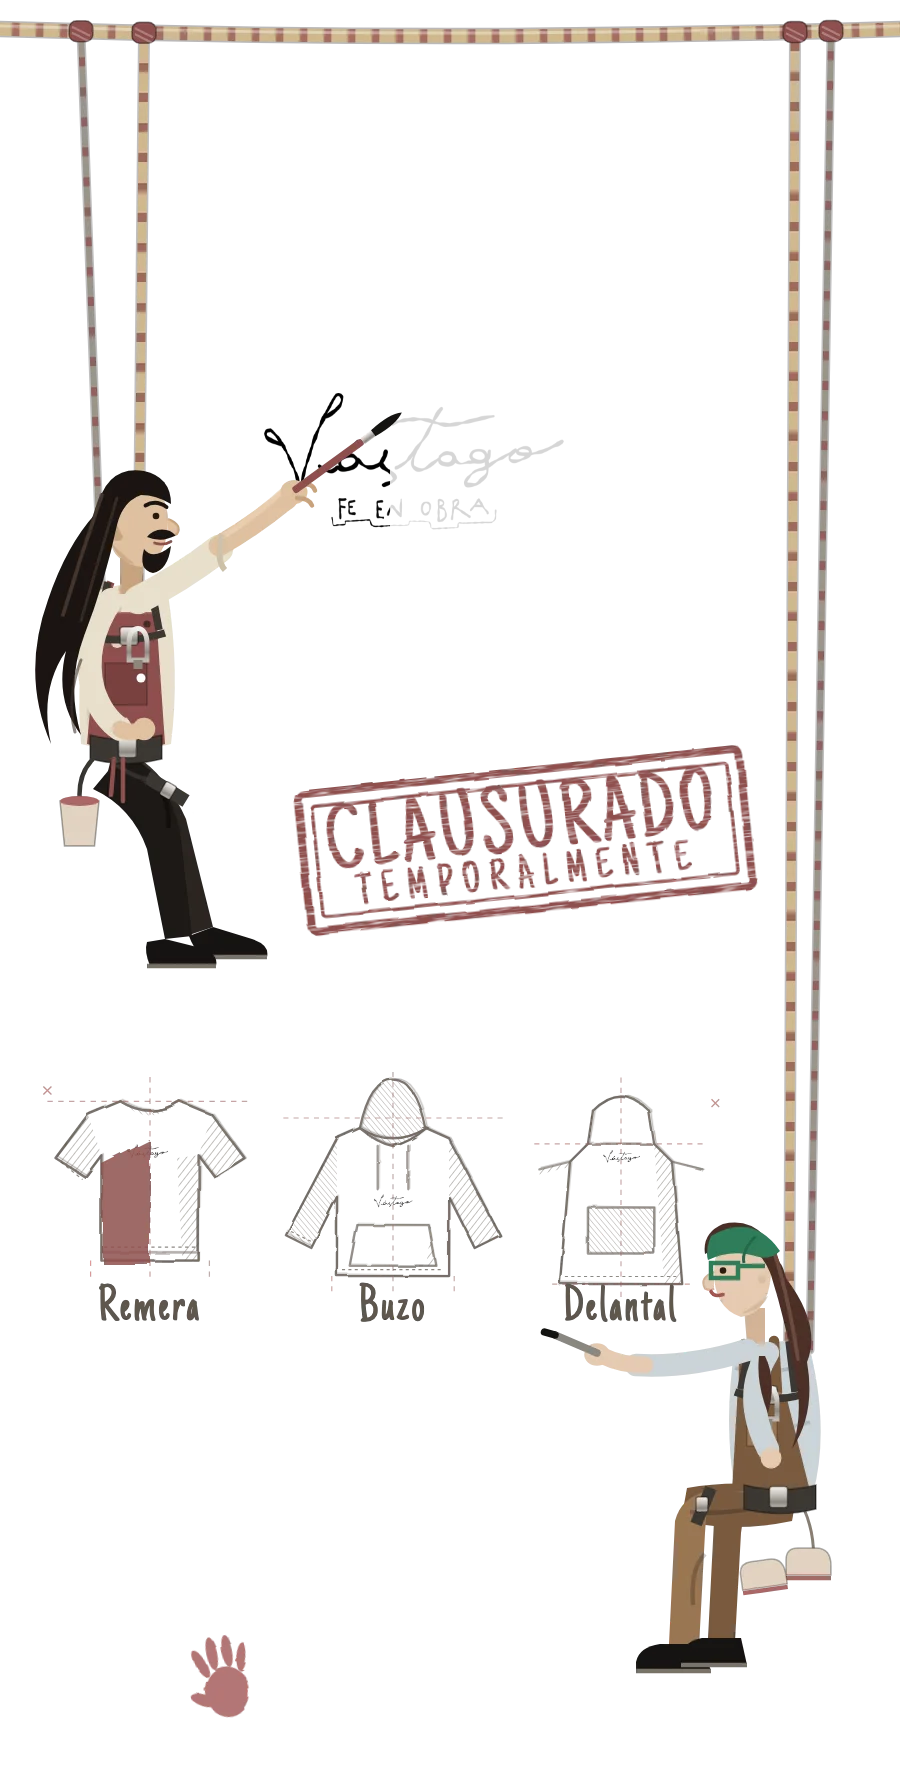
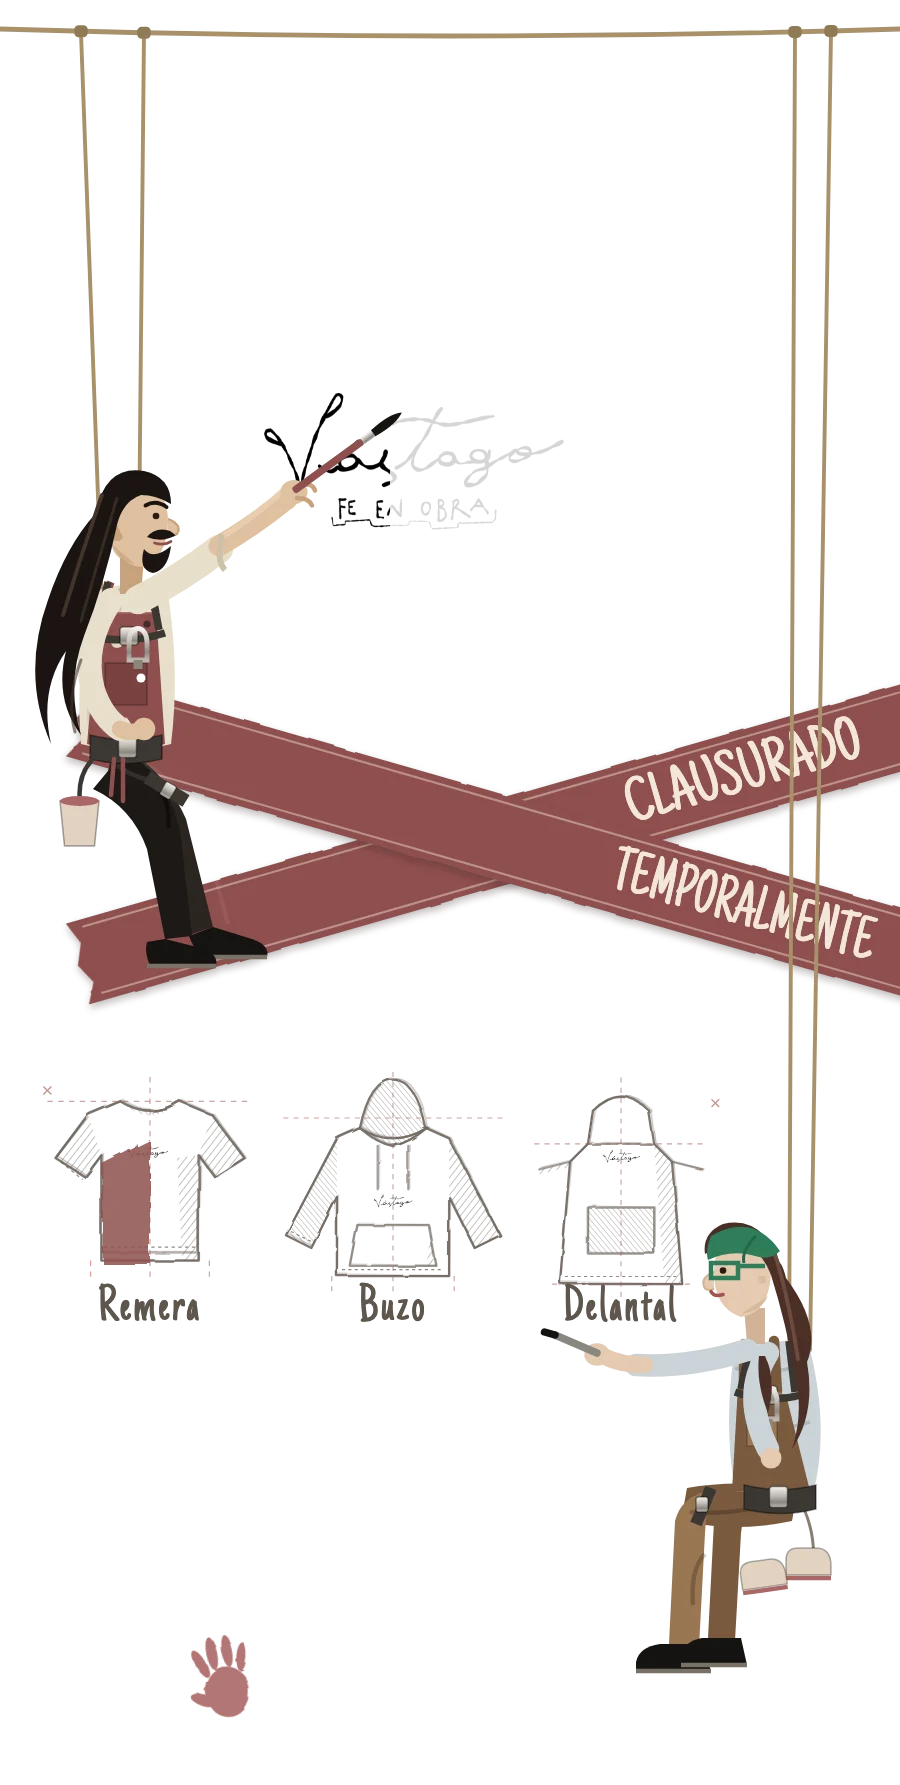
Tienda: soga fina de un color y cintas de clausura en X; taller en San Francisco, Córdoba; banda de encargos más arriba

Changed region(s): [[0.0, 0.0, 1.0, 0.7395], [0.0622, 0.4006, 0.1244, 0.4314]]

diff --git a/sitio/index.html b/sitio/index.html
@@ -414,7 +414,7 @@ a.v:focus-visible{outline:2px solid var(--bordo-os);outline-offset:3px}
 </section>
 
 <!-- ENCARGOS: banda -->
-<section class="s lienzo" id="encargos" style="padding-top:0;padding-bottom:clamp(36px,6vh,70px)">
+<section class="s lienzo" id="encargos" style="padding-top:0;margin-top:calc(-1 * clamp(28px,3.6vw,52px));padding-bottom:clamp(36px,6vh,70px)">
   <div class="banda"><svg class="pint" viewBox="0 0 1000 200" preserveAspectRatio="none" aria-hidden="true"><defs><filter id="pincel" x="-5%" y="-20%" width="110%" height="140%"><feTurbulence type="fractalNoise" baseFrequency=".012 .035" numOctaves="3" seed="3" result="n"/><feDisplacementMap in="SourceGraphic" in2="n" scale="6"/></filter></defs><g filter="url(#pincel)"><path d="M16 14 C260 6 650 18 984 9" stroke-width="7" opacity=".9"/><path d="M60 21 C320 15 700 24 940 17" stroke-width="2" opacity=".3"/><path d="M988 8 C997 70 983 132 992 195" stroke-width="6.5" opacity=".88"/><path d="M994 189 C700 199 330 186 10 195" stroke-width="7" opacity=".9"/><path d="M930 183 C650 190 330 180 70 187" stroke-width="2" opacity=".3"/><path d="M7 197 C15 130 2 70 12 8" stroke-width="6.5" opacity=".88"/></g></svg>
     <div><p class="eyebrow">Por encargo</p><h3>¿No encontrás la que buscás? La pintamos para vos.</h3></div>
     <ol class="stp">
@@ -443,7 +443,7 @@ a.v:focus-visible{outline:2px solid var(--bordo-os);outline-offset:3px}
         <div><dt>Turno mañana</dt><dd>10 a 11:30</dd></div>
         <div><dt>Turno tarde</dt><dd>18 a 19:30</dd></div>
         <div><dt>Materiales</dt><dd>Incluidos</dd></div>
-        <div><dt>Dónde</dt><dd>Presencial · calle Paraguay</dd></div>
+        <div><dt>Dónde</dt><dd>Presencial · San Francisco, Córdoba</dd></div>
       </dl>
       <p class="nota">Cupos y precio: consultalos por WhatsApp.</p>
       <a class="bt" data-wa data-msg="Hola, quiero consultar por el taller de arte." href="#contacto"><svg class="wa" viewBox="0 0 24 24" aria-hidden="true"><use href="#i-wa"/></svg> Consultar por el taller</a>
@@ -471,7 +471,7 @@ a.v:focus-visible{outline:2px solid var(--bordo-os);outline-offset:3px}
   <div class="esc-t">
     <picture>
       <source media="(max-width:760px)" srcset="tienda-escena-m.webp" width="900" height="1785">
-      <img src="tienda-escena.webp" width="2160" height="1350" alt="Matías y Abigail, colgados de arneses, dibujan y pintan sobre el lienzo el boceto de una remera, un buzo y un delantal, y el logo de Vástago, con un sello que dice Clausurado temporalmente" loading="lazy" decoding="async">
+      <img src="tienda-escena.webp" width="2160" height="1350" alt="Matías y Abigail, colgados de arneses, dibujan y pintan sobre el lienzo el boceto de una remera, un buzo y un delantal, y el logo de Vástago, con dos cintas de clausura cruzadas en X que dicen Clausurado temporalmente" loading="lazy" decoding="async">
     </picture>
     <div class="tt"><p class="eyebrow">Tienda · clausurada temporalmente</p><h2 class="mano">Estamos pintando <em>la tienda</em></h2></div>
     <div class="ac"><a class="bt" data-wa data-msg="Hola, avisame cuando la tienda esté lista." href="#contacto"><svg class="wa" viewBox="0 0 24 24" aria-hidden="true"><use href="#i-wa"/></svg> Avisame cuando esté lista</a><p>o seguinos en <a href="https://www.instagram.com/vastago.obras" target="_blank" rel="noopener">@vastago.obras</a></p></div>
@@ -509,7 +509,7 @@ a.v:focus-visible{outline:2px solid var(--bordo-os);outline-offset:3px}
     <div class="col">
       <div class="it"><p class="k">Instagram</p><a class="v" href="https://www.instagram.com/vastago.obras" target="_blank" rel="noopener">@vastago.obras</a><p class="d">Las obras, el proceso y lo que viene.</p></div>
       <div class="it"><p class="k">Mail</p><p class="v">Mail de contacto</p><p class="d">Si preferís escribir con más calma.</p></div>
-      <div class="it"><p class="k">El taller</p><p class="v">Calle Paraguay</p><p class="d">Escribinos antes de venir y coordinamos.</p></div>
+      <div class="it"><p class="k">El taller</p><p class="v">San Francisco, Córdoba</p><p class="d">Escribinos antes de venir y coordinamos.</p></div>
     </div>
   </div>
 </section>
@@ -523,7 +523,7 @@ a.v:focus-visible{outline:2px solid var(--bordo-os);outline-offset:3px}
       <div class="ct" style="left:22.9%"><span class="k">Instagram</span><a class="v" href="https://www.instagram.com/vastago.obras" target="_blank" rel="noopener">@vastago.obras</a></div>
       <div class="ct" style="left:36.1%"><span class="k">WhatsApp</span><a class="v" data-wa data-msg="Hola, quiero consultar." href="#contacto">Escribinos</a></div>
       <div class="ct" style="left:52.8%"><span class="k">Mail</span><span class="v">Mail de contacto</span></div>
-      <div class="ct" style="left:66%"><span class="k">El taller</span><span class="v">Calle Paraguay</span></div>
+      <div class="ct" style="left:66%"><span class="k">El taller</span><span class="v">San Francisco, Córdoba</span></div>
       <p class="cp">© 2026 Vástago · Fe en obra</p>
     </div>
   </div>
